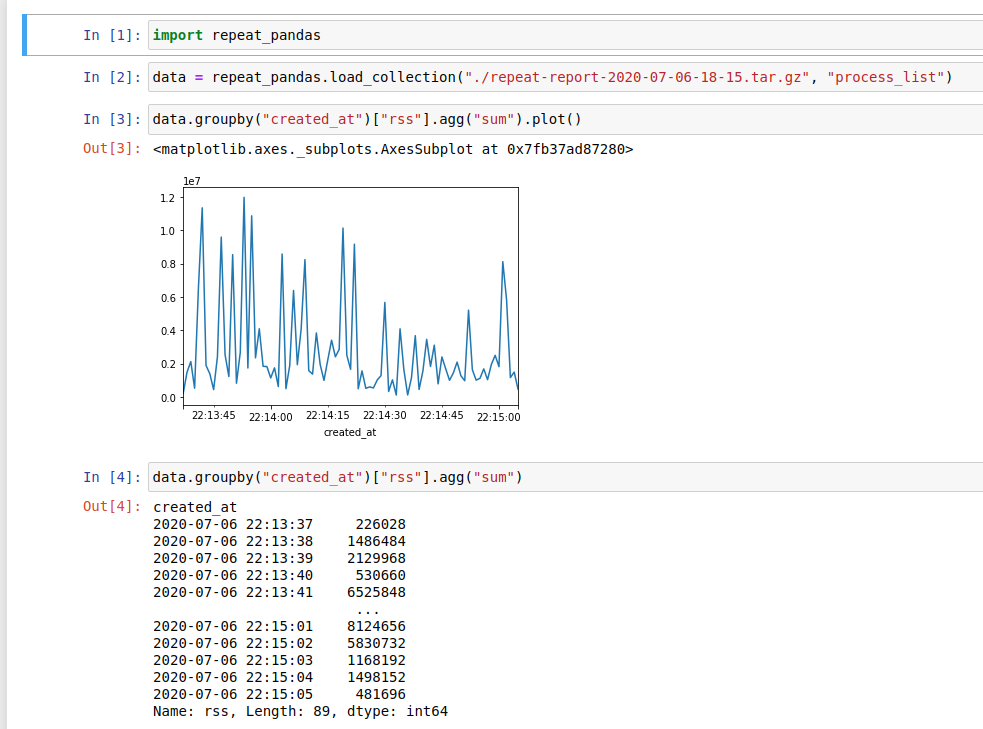
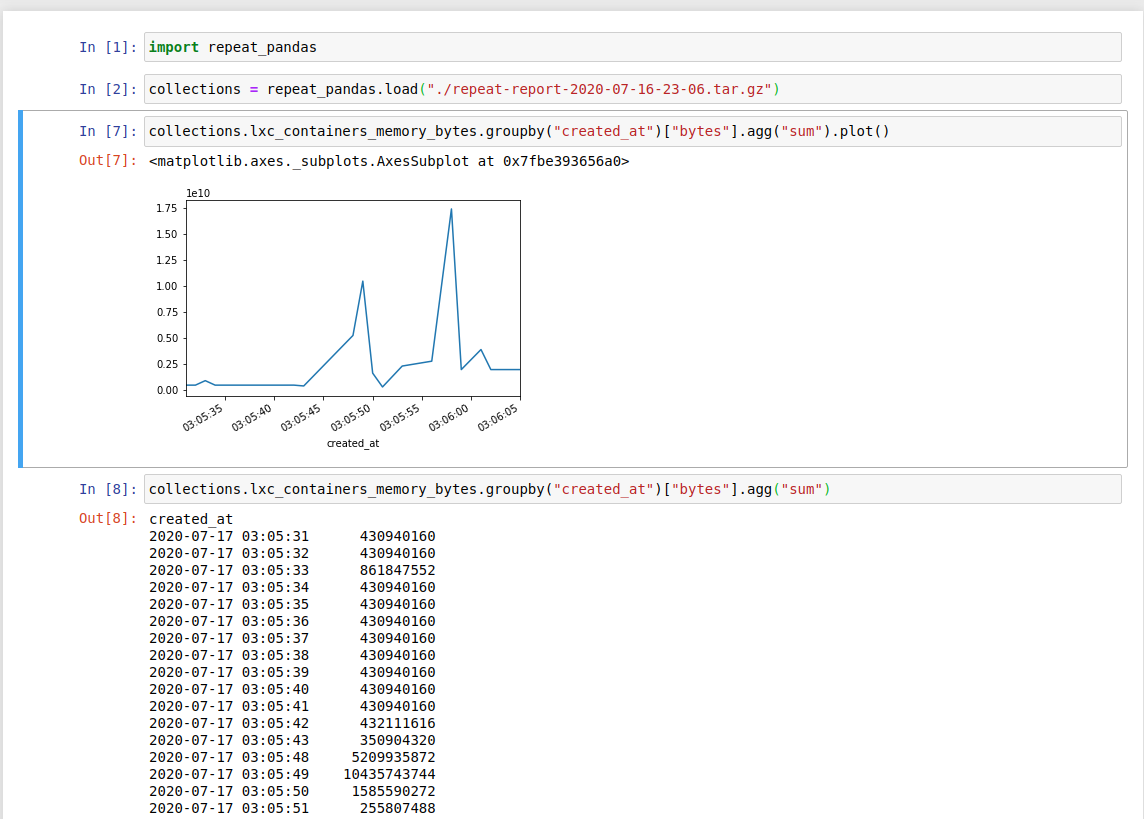
improve pandas example and library

diff --git a/repeat_pandas.py b/repeat_pandas.py
@@ -9,7 +9,10 @@ import glob
 DEFAULT_COLLECTIONS_FILE = "collections.db"
 
 
-def load_collection(filepath, collection):
+class Collections: pass
+
+
+def load(filepath):
     with tempfile.TemporaryDirectory() as tmp_dir:
         with tarfile.open(filepath, 'r:gz') as tar:
             tar.extractall(tmp_dir)
@@ -17,5 +20,12 @@ def load_collection(filepath, collection):
         db_file = glob.glob("{0}/repeat-*/{1}".format(tmp_dir, DEFAULT_COLLECTIONS_FILE))[0]
         engine = sqlalchemy.create_engine("sqlite:///{0}".format(db_file),
                                           execution_options={"sqlite_raw_colnames": True})
-        dfs = pd.read_sql_table(collection, engine)
-        return dfs
+
+        engine.connect()
+
+        inspector = sqlalchemy.inspect(engine)
+        collections = Collections()
+
+        for table in inspector.get_table_names():
+            setattr(collections, table, pd.read_sql_table(table, engine))
+        return collections
